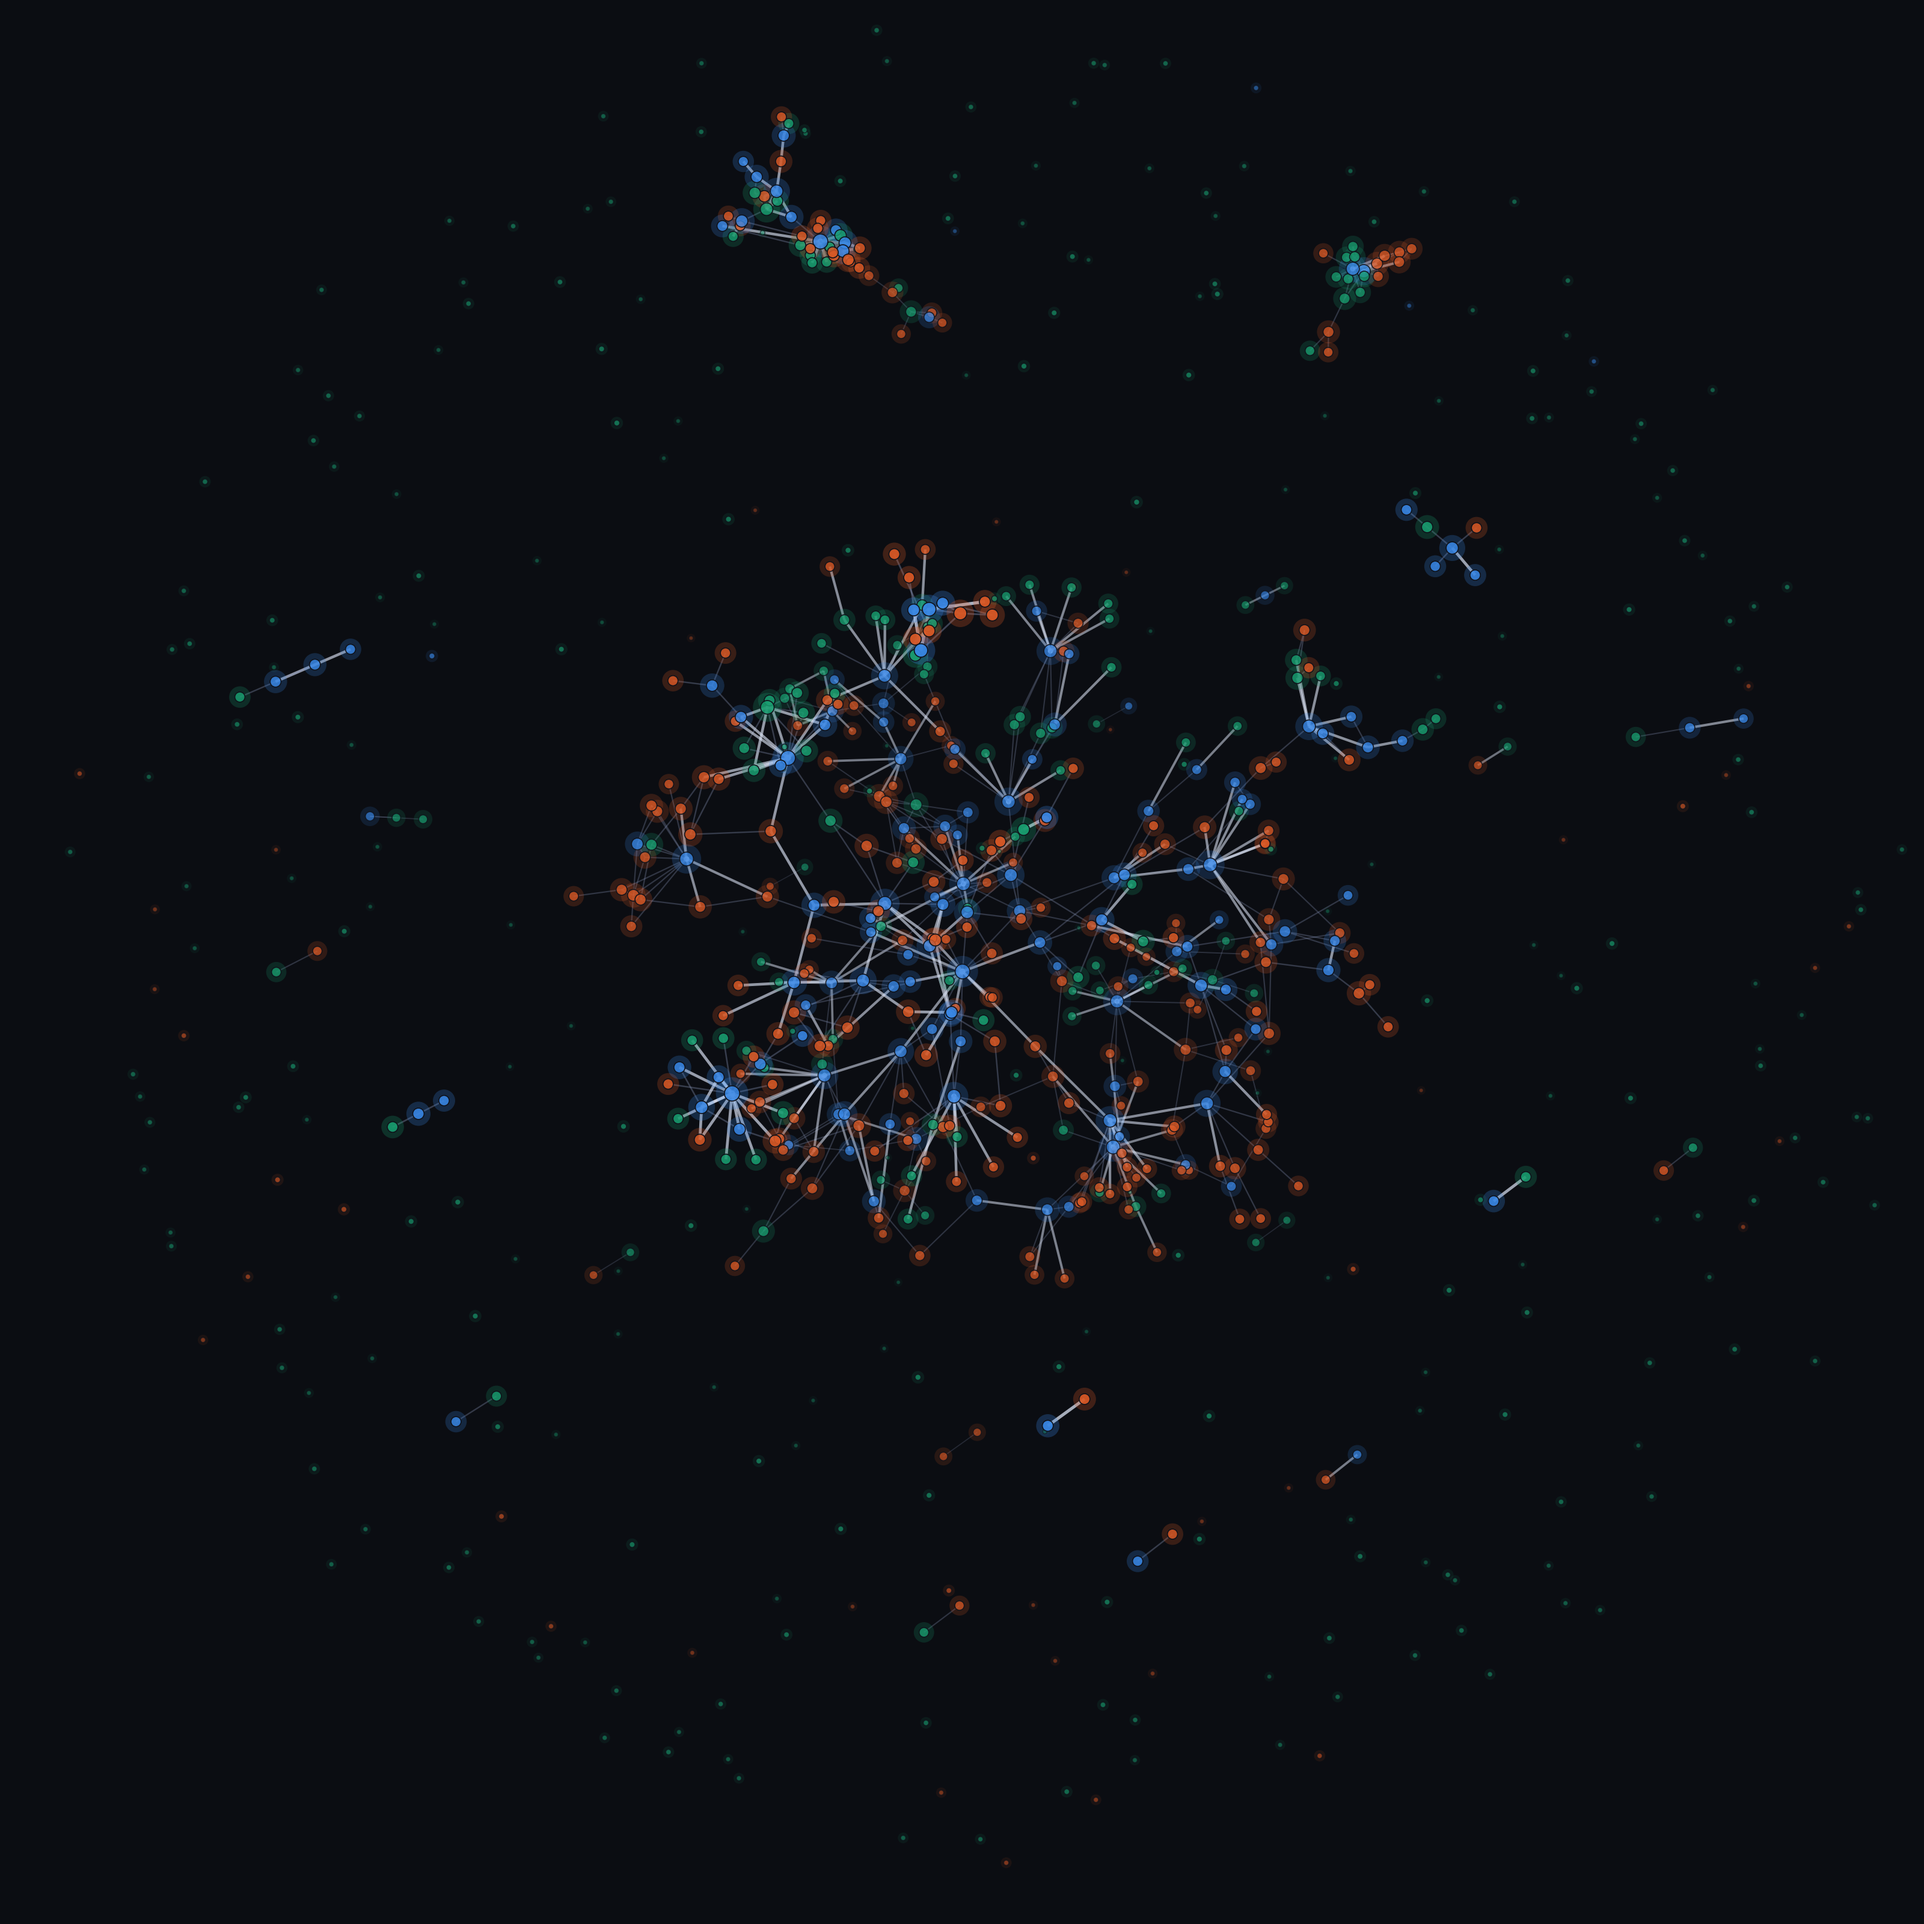
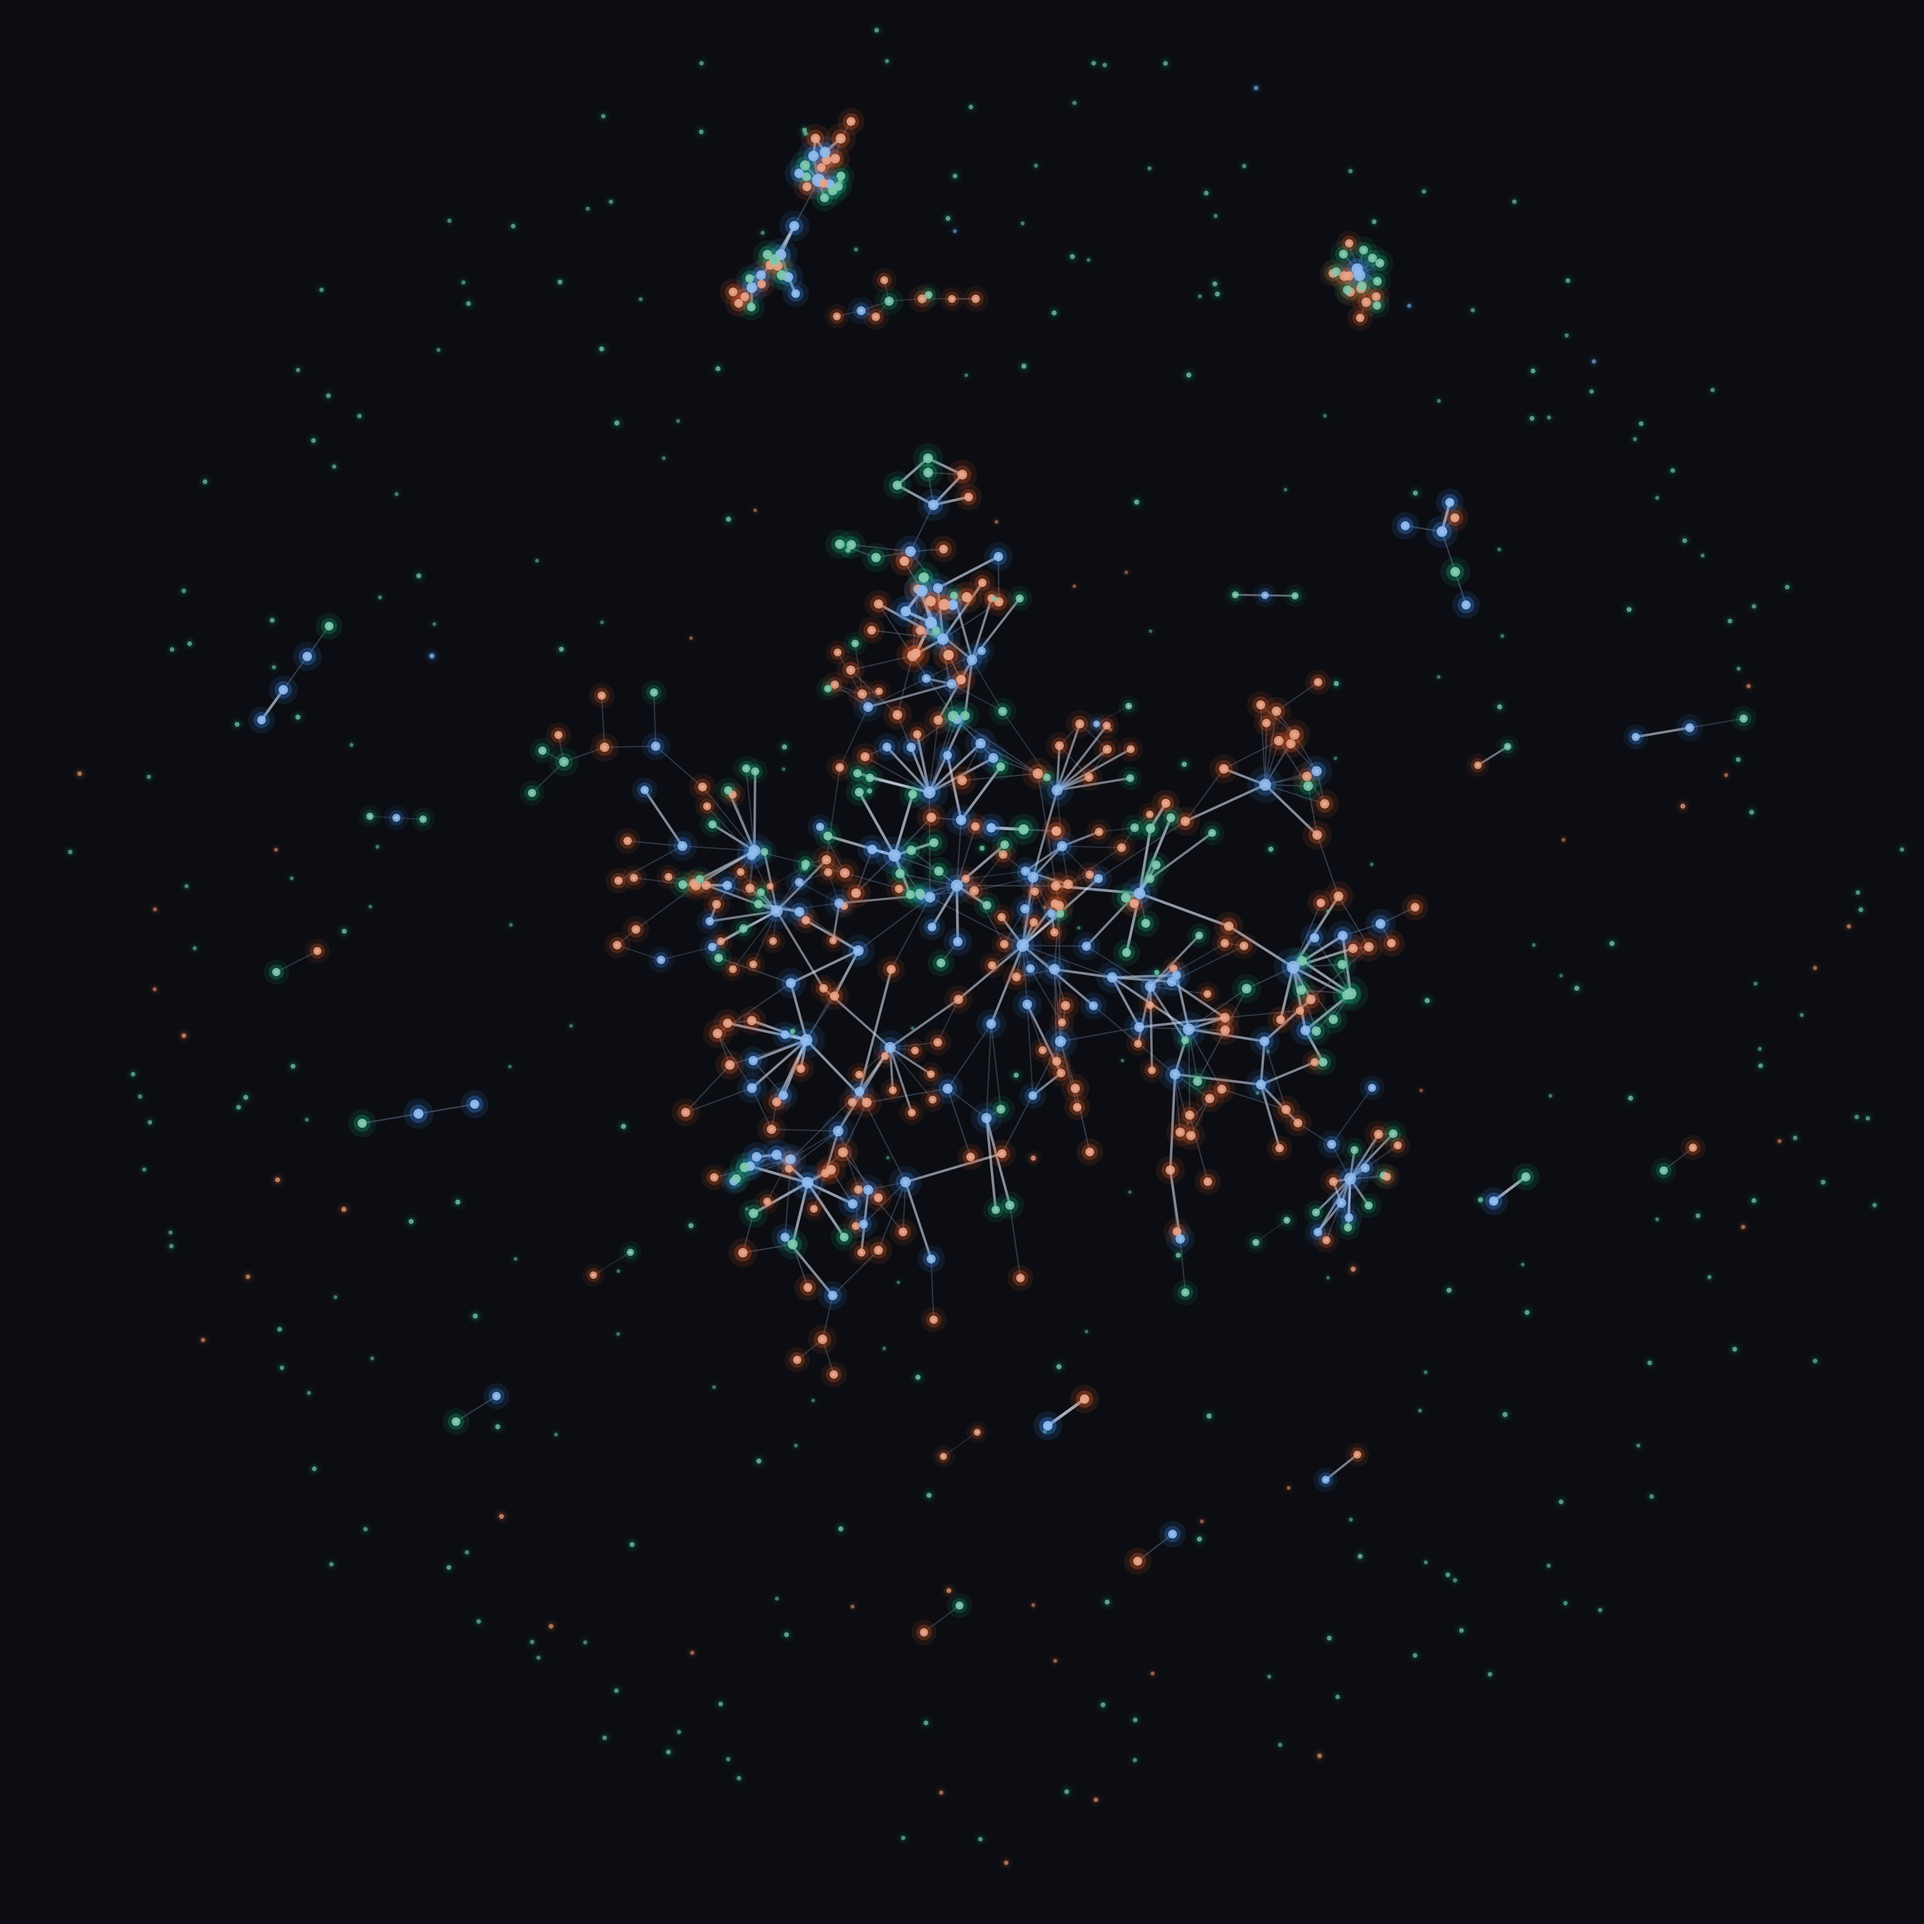
README 절차 그래프 그림을 GIF → 정적 PNG(별 스타일)로, 회전 GIF 제거

diff --git a/backend/sources/draw_graph.py b/backend/sources/draw_graph.py
@@ -165,16 +165,16 @@ def render(G: nx.DiGraph, pos: dict, edges: list[dict], out: Path, elev: float =
     rgb = np.array([matplotlib.colors.to_rgb(COLOR[k]) for k in kinds])
     size_core = np.where(isolated, 10.0, 22.0 + 14.0 * np.sqrt(deg)) * (0.55 + 0.75 * depth)
     alpha_core = np.where(isolated, 0.35 + 0.35 * depth, 0.55 + 0.45 * depth)
-    glow_rgba = np.column_stack([rgb, np.where(isolated, 0.05 + 0.07 * depth, 0.10 + 0.20 * depth)])
-    core_rgba = np.column_stack([rgb, alpha_core])
+    # 별처럼: 테두리 없이 넓은 후광 → 좁은 후광 → 색 코어 → 흰 중심(연결 노드만). 겹치면 빛이 쌓이게 투명도로 조절
     order = np.argsort(depth)  # 뒤에서 앞으로 그린다
-    ax.scatter(XYZ[order, 0], XYZ[order, 1], XYZ[order, 2], s=size_core[order] * 4.5, c=glow_rgba[order], linewidths=0, depthshade=False, zorder=2)
-    # 코어: 흰 테두리로 간선·이웃과 분리(밝은 배경에서 또렷하게)
-    ax.scatter(XYZ[order, 0], XYZ[order, 1], XYZ[order, 2], s=size_core[order], c=core_rgba[order],
-               edgecolors=[(*RING, min(1.0, a + 0.15)) for a in alpha_core[order]], linewidths=0.6, depthshade=False, zorder=3)
-    # 허브(차수 상위)에는 작은 흰 점을 얹어 강조
-    hub = deg >= 10
-    ax.scatter(XYZ[hub, 0], XYZ[hub, 1], XYZ[hub, 2], s=size_core[hub] * 0.16, c=[(1, 1, 1, 0.95)], linewidths=0, depthshade=False, zorder=4)
+    haze = np.column_stack([rgb, np.where(isolated, 0.03 + 0.04 * depth, 0.06 + 0.10 * depth)])
+    glow = np.column_stack([rgb, np.where(isolated, 0.08 + 0.10 * depth, 0.16 + 0.22 * depth)])
+    core = np.column_stack([np.clip(rgb * 0.55 + 0.45, 0, 1), np.where(isolated, 0.45 + 0.35 * depth, 0.75 + 0.25 * depth)])
+    ax.scatter(XYZ[order, 0], XYZ[order, 1], XYZ[order, 2], s=size_core[order] * 7.0, c=haze[order], linewidths=0, depthshade=False, zorder=2)
+    ax.scatter(XYZ[order, 0], XYZ[order, 1], XYZ[order, 2], s=size_core[order] * 2.6, c=glow[order], linewidths=0, depthshade=False, zorder=3)
+    ax.scatter(XYZ[order, 0], XYZ[order, 1], XYZ[order, 2], s=size_core[order] * 0.75, c=core[order], linewidths=0, depthshade=False, zorder=4)
+    lit = ~isolated
+    ax.scatter(XYZ[lit, 0], XYZ[lit, 1], XYZ[lit, 2], s=size_core[lit] * 0.16, c=[(1, 1, 1, 0.95)], linewidths=0, depthshade=False, zorder=5)
 
     out.parent.mkdir(parents=True, exist_ok=True)
     fig.savefig(out, dpi=dpi, facecolor=SURFACE)
@@ -234,13 +234,15 @@ def render_gif(G: nx.DiGraph, pos: dict, nodes: dict, edges: list[dict], out: Pa
             lws = np.where(hard, 1.0 + 1.0 * d, 0.45 + 0.55 * d)
             ax.add_collection3d(Line3DCollection(segs, colors=cols, linewidths=lws))
             size = np.where(isolated, 7.0, 16.0 + 10.0 * np.sqrt(deg)) * (0.55 + 0.75 * depth)
-            glow = np.column_stack([rgb, np.where(isolated, 0.05 + 0.07 * depth, 0.10 + 0.20 * depth)])
-            core_a = np.where(isolated, 0.35 + 0.35 * depth, 0.55 + 0.45 * depth)
-            core = np.column_stack([rgb, core_a])
             order = np.argsort(depth)
-            ax.scatter(XYZ[order, 0], XYZ[order, 1], XYZ[order, 2], s=size[order] * 4.5, c=glow[order], linewidths=0, depthshade=False)
-            ax.scatter(XYZ[order, 0], XYZ[order, 1], XYZ[order, 2], s=size[order], c=core[order],
-                       edgecolors=[(*RING, min(1.0, a + 0.15)) for a in core_a[order]], linewidths=0.5, depthshade=False)
+            haze = np.column_stack([rgb, np.where(isolated, 0.03 + 0.04 * depth, 0.06 + 0.10 * depth)])
+            glow = np.column_stack([rgb, np.where(isolated, 0.08 + 0.10 * depth, 0.16 + 0.22 * depth)])
+            core = np.column_stack([np.clip(rgb * 0.55 + 0.45, 0, 1), np.where(isolated, 0.45 + 0.35 * depth, 0.75 + 0.25 * depth)])
+            ax.scatter(XYZ[order, 0], XYZ[order, 1], XYZ[order, 2], s=size[order] * 7.0, c=haze[order], linewidths=0, depthshade=False)
+            ax.scatter(XYZ[order, 0], XYZ[order, 1], XYZ[order, 2], s=size[order] * 2.6, c=glow[order], linewidths=0, depthshade=False)
+            ax.scatter(XYZ[order, 0], XYZ[order, 1], XYZ[order, 2], s=size[order] * 0.75, c=core[order], linewidths=0, depthshade=False)
+            lit = ~isolated
+            ax.scatter(XYZ[lit, 0], XYZ[lit, 1], XYZ[lit, 2], s=size[lit] * 0.16, c=[(1, 1, 1, 0.95)], linewidths=0, depthshade=False)
             # 카메라에 가까운 연결 노드에 이름 — 가까움 + 허브(차수) 가중, 화면 좌표로 겹침 회피
             from mpl_toolkits.mplot3d import proj3d
             cand = np.where(deg >= 2)[0]

diff --git a/README.md b/README.md
@@ -88,7 +88,7 @@
 노드는 행정 절차, 간선은 선행 관계이며 간선마다 `condition / guidance / pitfalls` 를 붙입니다. 할 일 보드의 추천 순서와 체크 잠금, 대화 중 "지금 할 수 있는 절차 / 먼저 끝내야 하는 절차" 안내가 모두 이 그래프에서 나옵니다.
 
 <div align="center">
-<a href="https://team-nutcrackers.github.io/darami/graph/"><img src="docs/figure/procedural-graph-3d.gif" alt="절차 그래프 3D 애니메이션 — 노드 808개, 선행 관계 643개" width="560" /></a>
+<a href="https://team-nutcrackers.github.io/darami/graph/"><img src="docs/figure/procedural-graph-3d.png" alt="절차 그래프 전체 — 노드 808개, 선행 관계 643개" width="560" /></a>
 
 **[▶ 3D 로 직접 돌아다니기 (GitHub Pages)](https://team-nutcrackers.github.io/darami/graph/)** — 자동 순회 · 드래그/휠 · 가까운 절차 이름 표시 · 노드 클릭으로 선행·후속 보기
 
